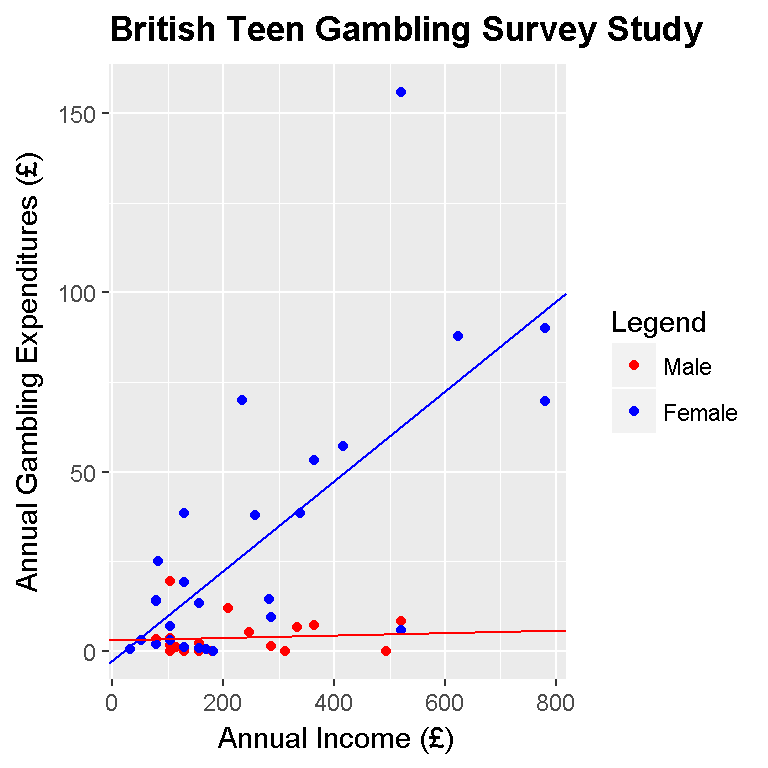
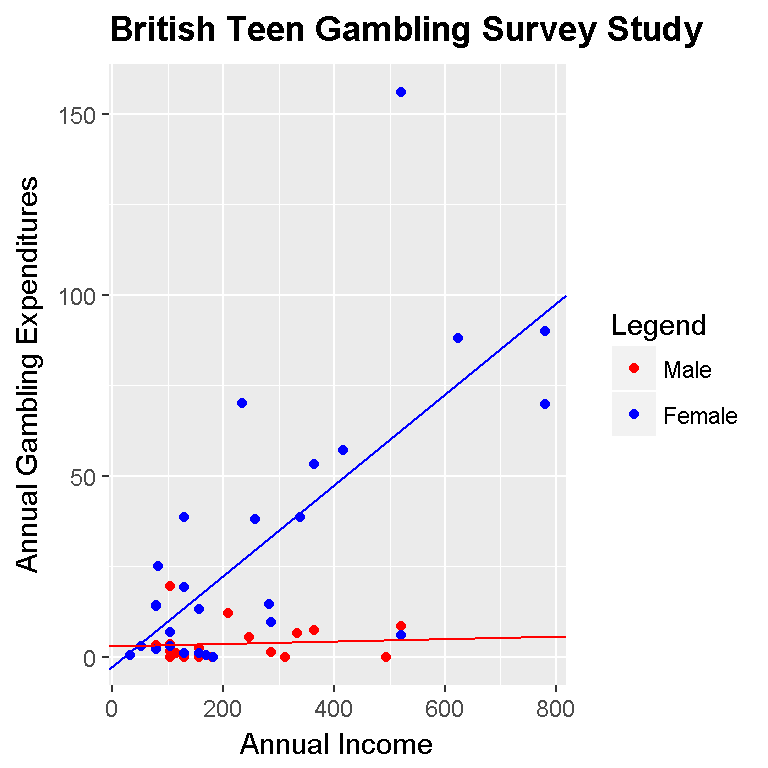
Added more files to website as of August 19, 2018.

diff --git a/rvisual-linear-model.html b/rvisual-linear-model.html
@@ -312,8 +312,8 @@ p &lt;- ggplot(aes(x = income, y = gamble), data = gamb_data)
 # Initial Plot:
 
 p + geom_point(aes(group = sex, colour = sex)) + 
- xlab(&quot;Annual Income (£)&quot;) +
- ylab(&quot;Annual Gambling Expenditures (£)&quot;) +
+ xlab(&quot;Annual Income&quot;) +
+ ylab(&quot;Annual Gambling Expenditures&quot;) +
  ggtitle(&quot;British Teen Gambling Survey Study&quot;) + 
  theme(plot.title = element_text(lineheight=.8, face=&quot;bold&quot;))</code></pre>
 <p><img src="rvisual-linear-model_files/figure-html/unnamed-chunk-3-1.png" width="384" /></p>
@@ -346,8 +346,8 @@ coef_model &lt;- coef(model); coef_model</code></pre>
 p + geom_point(aes(group = sex, colour = sex)) +
   geom_abline(slope = coef_male[2], intercept = coef_male[1], colour = &#39;blue&#39;) +
   geom_abline(slope = coef_female[2], intercept = coef_female[1], colour = &#39;red&#39;) +
-  xlab(&quot;Annual Income (£)&quot;) +
-  ylab(&quot;Annual Gambling Expenditures (£)&quot;) +
+  xlab(&quot;Annual Income&quot;) +
+  ylab(&quot;Annual Gambling Expenditures&quot;) +
   scale_colour_manual(values = c(&quot;red&quot;,&quot;blue&quot;),
                       labels = c(&quot;Male&quot;, &quot;Female&quot;),
                       name = &quot;Legend&quot;) +
@@ -359,8 +359,8 @@ p + geom_point(aes(group = sex, colour = sex)) +
 
 p + geom_point() +
  geom_abline(slope = coef_model[2], intercept = coef_model[1], colour = &#39;green&#39;) +
- xlab(&quot;Annual Income (£)&quot;) +
- ylab(&quot;Annual Gambling Expenditures (£)&quot;) +
+ xlab(&quot;Annual Income&quot;) +
+ ylab(&quot;Annual Gambling Expenditures&quot;) +
  ggtitle(&quot;British Teen Gambling Survey Study&quot;) + 
  theme(plot.title = element_text(lineheight=.8, face=&quot;bold&quot;))</code></pre>
 <p><img src="rvisual-linear-model_files/figure-html/unnamed-chunk-5-1.png" width="384" /></p>
@@ -387,7 +387,7 @@ p + geom_point() +
 <h3><u>Regression Through The Origin</u></h3>
 <p> </p>
 <p>Based on the context our data, we cannot have negative income and 0 income should relate to 0 gambling spending. (One could argue that you can have 0 income and still gamble with other people’s money but that is not assumed) We should be running a linear model through the origin point of (0, 0).</p>
-<p>To run a regression through the origin we add a 0 and a + with the independent variable in the lm() function in R.</p>
+<p>To run a regression through the origin we add a 0 and a + with the independent variable in the <code>lm()</code> function in R.</p>
 <p>The code will be similar as before but with different outputs.</p>
 <p> </p>
 <pre class="r"><code># Analysis:
@@ -421,8 +421,8 @@ coef_origin &lt;- coef(linear_model_origin); coef_origin</code></pre>
 p + geom_point(aes(group = sex, colour = sex)) +
  geom_abline(slope = coef_male_origin, intercept = 0, colour = &#39;blue&#39;) +
  geom_abline(slope = coef_female_origin, intercept = 0, colour = &#39;red&#39;) +
- xlab(&quot;Annual Income (£)&quot;) +
- ylab(&quot;Annual Gambling Expenditures (£)&quot;) +
+ xlab(&quot;Annual Income&quot;) +
+ ylab(&quot;Annual Gambling Expenditures&quot;) +
  scale_colour_manual(values = c(&quot;red&quot;,&quot;blue&quot;),
  labels = c(&quot;Female&quot;, &quot;Male&quot;),
  name = &quot;Legend&quot;) +
@@ -433,8 +433,8 @@ p + geom_point(aes(group = sex, colour = sex)) +
 
 p + geom_point() +
  geom_abline(slope = coef_origin, intercept = 0, colour = &#39;green&#39;) +
- xlab(&quot;Annual Income (£)&quot;) +
- ylab(&quot;Annual Gambling Expenditures (£)&quot;) +
+ xlab(&quot;Annual Income&quot;) +
+ ylab(&quot;Annual Gambling Expenditures&quot;) +
  ggtitle(&quot;British Teen Gambling Survey Study&quot;) + 
  theme(plot.title = element_text(lineheight=.8, face=&quot;bold&quot;))</code></pre>
 <p><img src="rvisual-linear-model_files/figure-html/unnamed-chunk-6-2.png" width="384" /></p>
